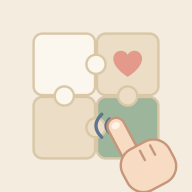
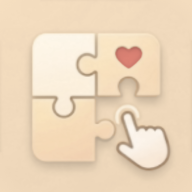
앱 아이콘: 원본 7번 그림에서 색만 베이지로 (B안)

diff --git a/sw.js b/sw.js
@@ -1,6 +1,6 @@
 // 톡톡 오프라인 실행 (버전 202611041840)
-const CACHE = 'ttokttok-202611110020b';
-const SHELL = ["./","./index.html","./app-aca52a31.js?v=9","./app-21865120.css","./theme.css?v=8","./pwa.js?v=2","./kakao.js?v=1","./back.js?v=2","./push.js?v=4","./mood.js?v=6","./rooms.js?v=31","./account.js?v=1","./anim.js?v=9","./easy.js?v=1","./puzzle.js?v=5","./manifest.webmanifest?v=7","./icon-192.png?v=7","./icon-512.png?v=7","./icon-180.png?v=7","./favicon.svg?v=7","./art/g01.webp?v=1","./art/g02.webp?v=1","./art/g03.webp?v=1","./art/g04.webp?v=1","./art/g05.webp?v=1","./art/g06.webp?v=1","./art/g07.webp?v=1","./art/g08.webp?v=1","./art/g09.webp?v=1","./art/g10.webp?v=1","./art/g11.webp?v=1","./art/g12.webp?v=1","./privacy.html"];
+const CACHE = 'ttokttok-202611110029b';
+const SHELL = ["./","./index.html","./app-aca52a31.js?v=9","./app-21865120.css","./theme.css?v=8","./pwa.js?v=2","./kakao.js?v=1","./back.js?v=2","./push.js?v=4","./mood.js?v=6","./rooms.js?v=31","./account.js?v=1","./anim.js?v=9","./easy.js?v=1","./puzzle.js?v=5","./manifest.webmanifest?v=8","./icon-192.png?v=8","./icon-512.png?v=8","./icon-180.png?v=8","./favicon.svg?v=8","./art/g01.webp?v=1","./art/g02.webp?v=1","./art/g03.webp?v=1","./art/g04.webp?v=1","./art/g05.webp?v=1","./art/g06.webp?v=1","./art/g07.webp?v=1","./art/g08.webp?v=1","./art/g09.webp?v=1","./art/g10.webp?v=1","./art/g11.webp?v=1","./art/g12.webp?v=1","./privacy.html"];
 self.addEventListener('install', e => { e.waitUntil(caches.open(CACHE).then(c => c.addAll(SHELL.map(u => new Request(u, { cache: 'reload' })))).then(() => self.skipWaiting())); });
 self.addEventListener('activate', e => { e.waitUntil(caches.keys().then(ks => Promise.all(ks.filter(k => k !== CACHE).map(k => caches.delete(k)))).then(() => self.clients.claim())); });
 self.addEventListener('fetch', e => {

diff --git a/index.html b/index.html
@@ -5,9 +5,9 @@
 <meta name="viewport" content="width=device-width, initial-scale=1, viewport-fit=cover, user-scalable=no">
 <meta name="theme-color" content="#14284b">
 <title>톡톡</title>
-<link rel="icon" type="image/svg+xml" href="./favicon.svg?v=7">
-<link rel="manifest" href="./manifest.webmanifest?v=7">
-<link rel="apple-touch-icon" href="./icon-180.png?v=7">
+<link rel="icon" type="image/svg+xml" href="./favicon.svg?v=8">
+<link rel="manifest" href="./manifest.webmanifest?v=8">
+<link rel="apple-touch-icon" href="./icon-180.png?v=8">
 <meta name="apple-mobile-web-app-capable" content="yes">
 <meta name="mobile-web-app-capable" content="yes">
 <meta name="apple-mobile-web-app-status-bar-style" content="default">

diff --git a/CLAUDE.md b/CLAUDE.md
@@ -56,7 +56,7 @@
 - 초간단 앱 유지. 공익성 중요. 개인 사진 비공개. 운영자 기능은 운영자만.
 - 양방향(부모만 확인받는 구조 아님), 대상은 '가까운 사람'(가족·친구·크루). 하트 주고받기는 하지 않음.
 - 컨디션: 노크 후 큰 버튼, 목록엔 글자로만(얼굴·7일 점 없음), 주간 알림으로 위로·안부.
-- 아이콘: 11/11 퍼즐+하트+손 시안(7번)을 베이지·세이지로 고르기로 함(웹앱 아이콘·favicon 교체 완료 11/11, v=7. 안드로이드 TWA 아이콘은 아직). 화면 색은 theme.css v2(베이지·세이지, 배치·기능 그대로).
+- 아이콘: 11/11 퍼즐+하트+손 시안(7번)을 베이지·세이지로 고르기로 함(웹앱 아이콘·favicon 교체 완료 11/11, v=8: 원본 7번 그림 색만 바꾼 B안(베이지 바탕). 안드로이드 TWA 아이콘은 아직). 화면 색은 theme.css v2(베이지·세이지, 배치·기능 그대로).
 - 플러스 월 2,900원 · 1년 29,000원(11/10 변경), 단체 1인 월 1,500원(베타 무료, 결제는 '준비 중'). 결제자만: 그림 미리보기·하루 3번·방 5개·소리·배지. 노크방 모두(곧): 문자 알림·형제 분담·주간 리포트·1년권 선물. 기본 안부 알림은 언제나 무료.
 - 그림 단품 판매 없음. 황금 칸 그림당 1칸, 당첨은 모두에게 공개.
 - 실명: 입장할 때 별명과 함께 선택 입력, 방장에게만 보임.
